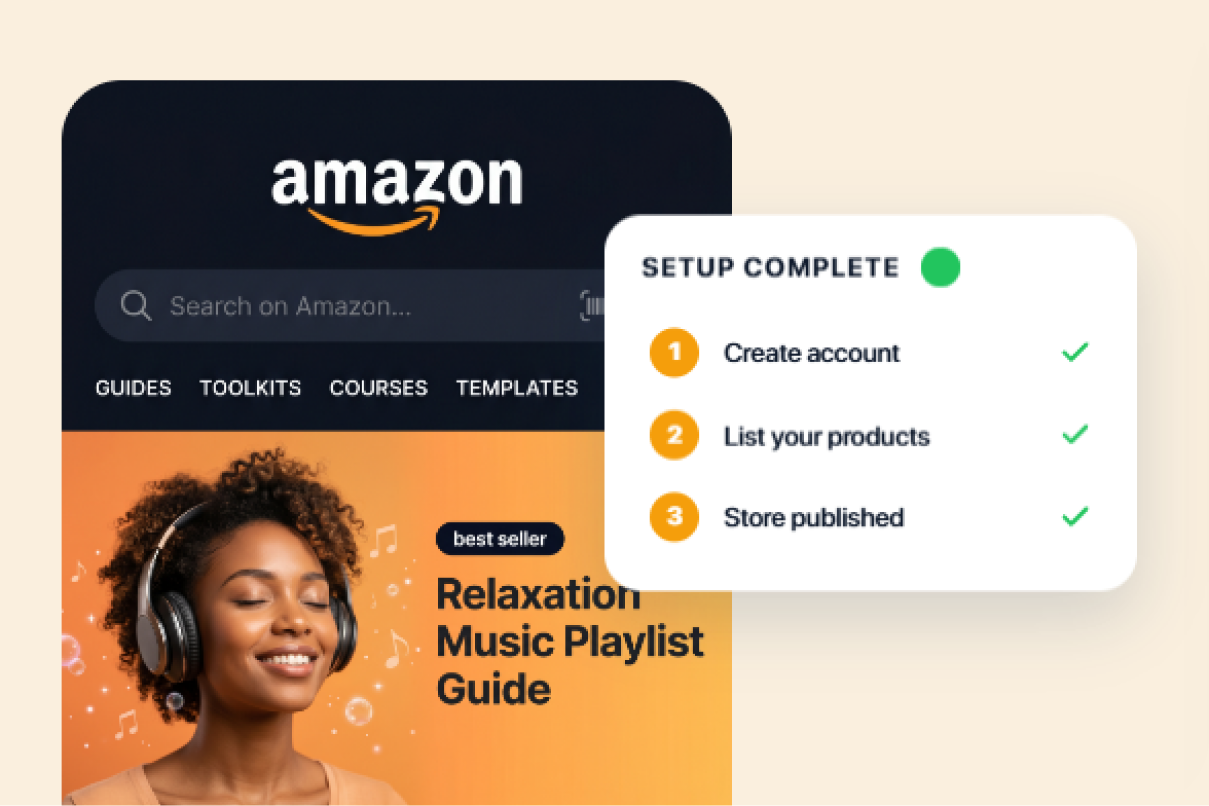
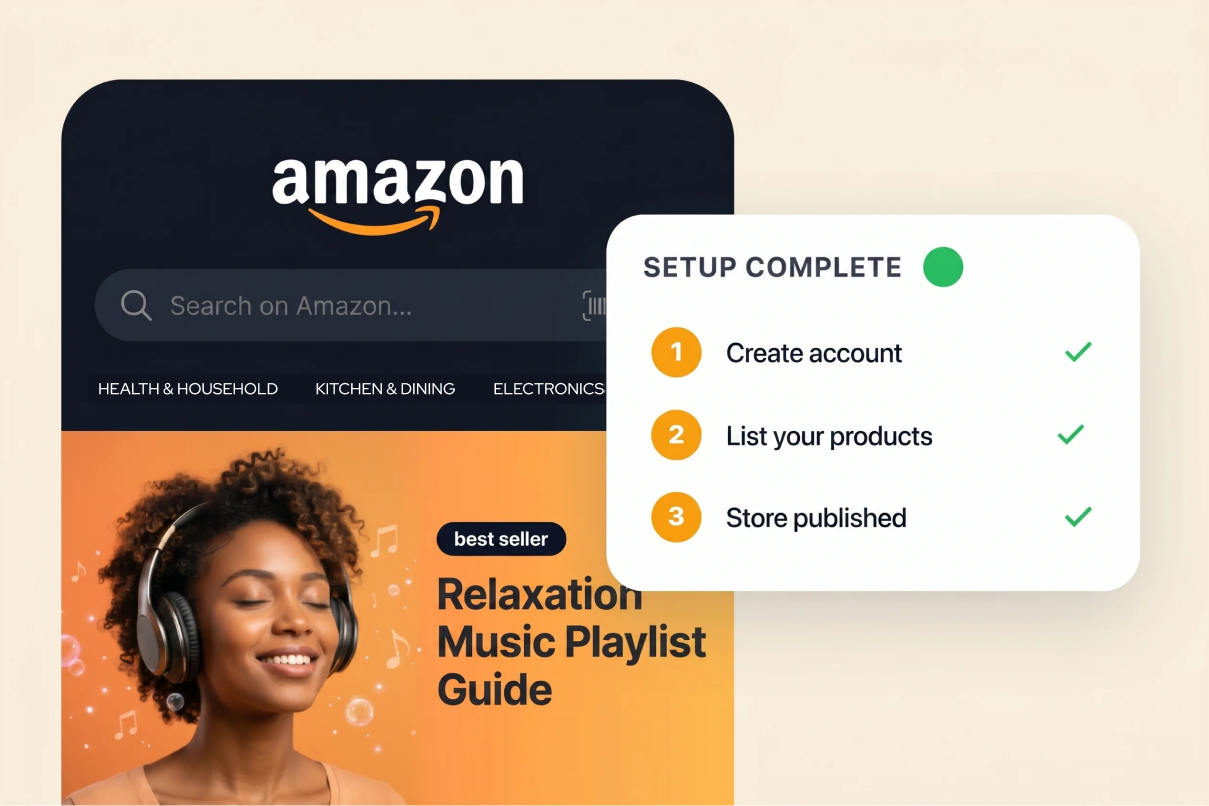
Update Amazon Kit artwork: Launch.webp, amazon_store.png, toolkits 1.png
- Refresh Launch.webp preview and bump cache-buster to ?v=3
- Replace amazon_store.png and toolkits 1.png with newer artwork

diff --git a/index.html b/index.html
@@ -1835,7 +1835,7 @@ height="0" width="0" style="display:none;visibility:hidden"></iframe></noscript>
     <div class="amzkit-grid">
       <article class="amzkit-card appear d1">
         <div class="amzkit-visual amzkit-anim-launch">
-          <img class="amzkit-preview" src="img/AmazonKit/Launch.webp?v=2" alt="" aria-hidden="true" loading="lazy">
+          <img class="amzkit-preview" src="img/AmazonKit/Launch.webp?v=3" alt="" aria-hidden="true" loading="lazy">
           <img src="img/AmazonKit/amazon_store.png" alt="Amazon seller storefront preview" loading="lazy">
           <div class="launch-checklist">
             <div class="lc-header">
